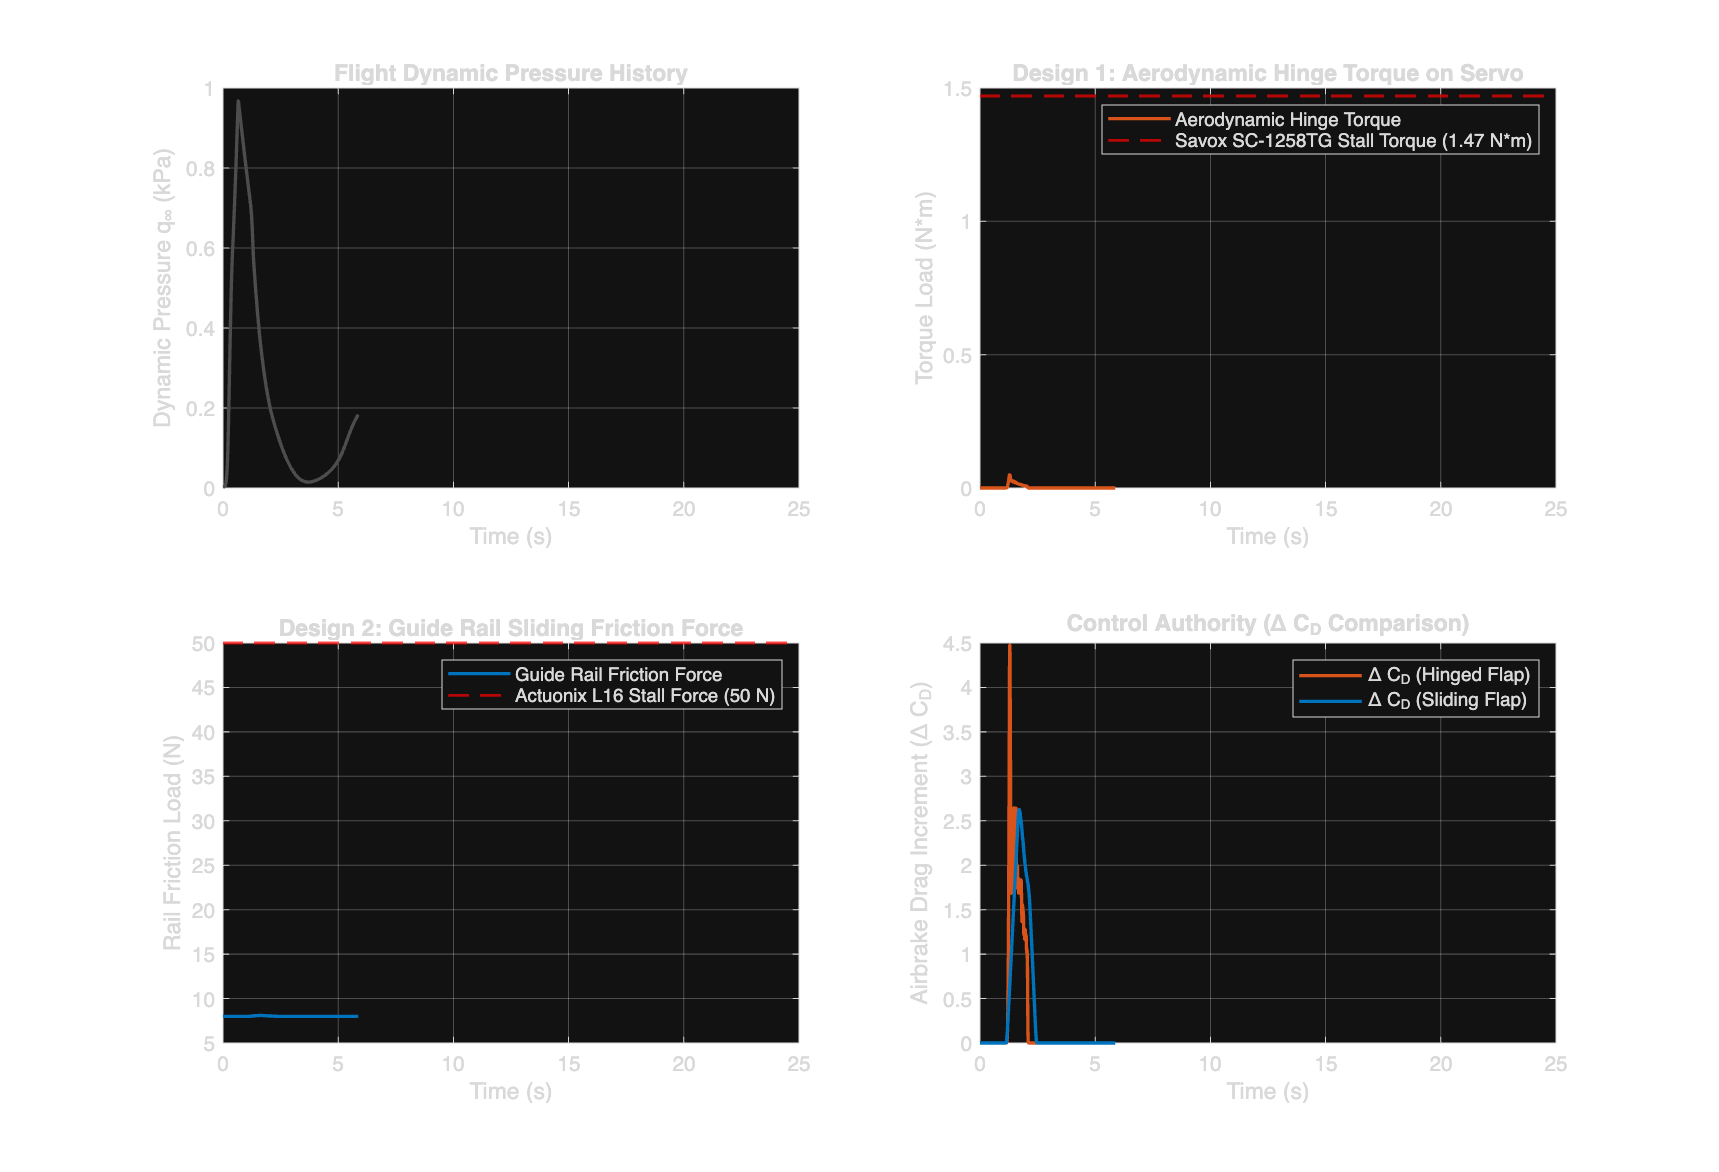
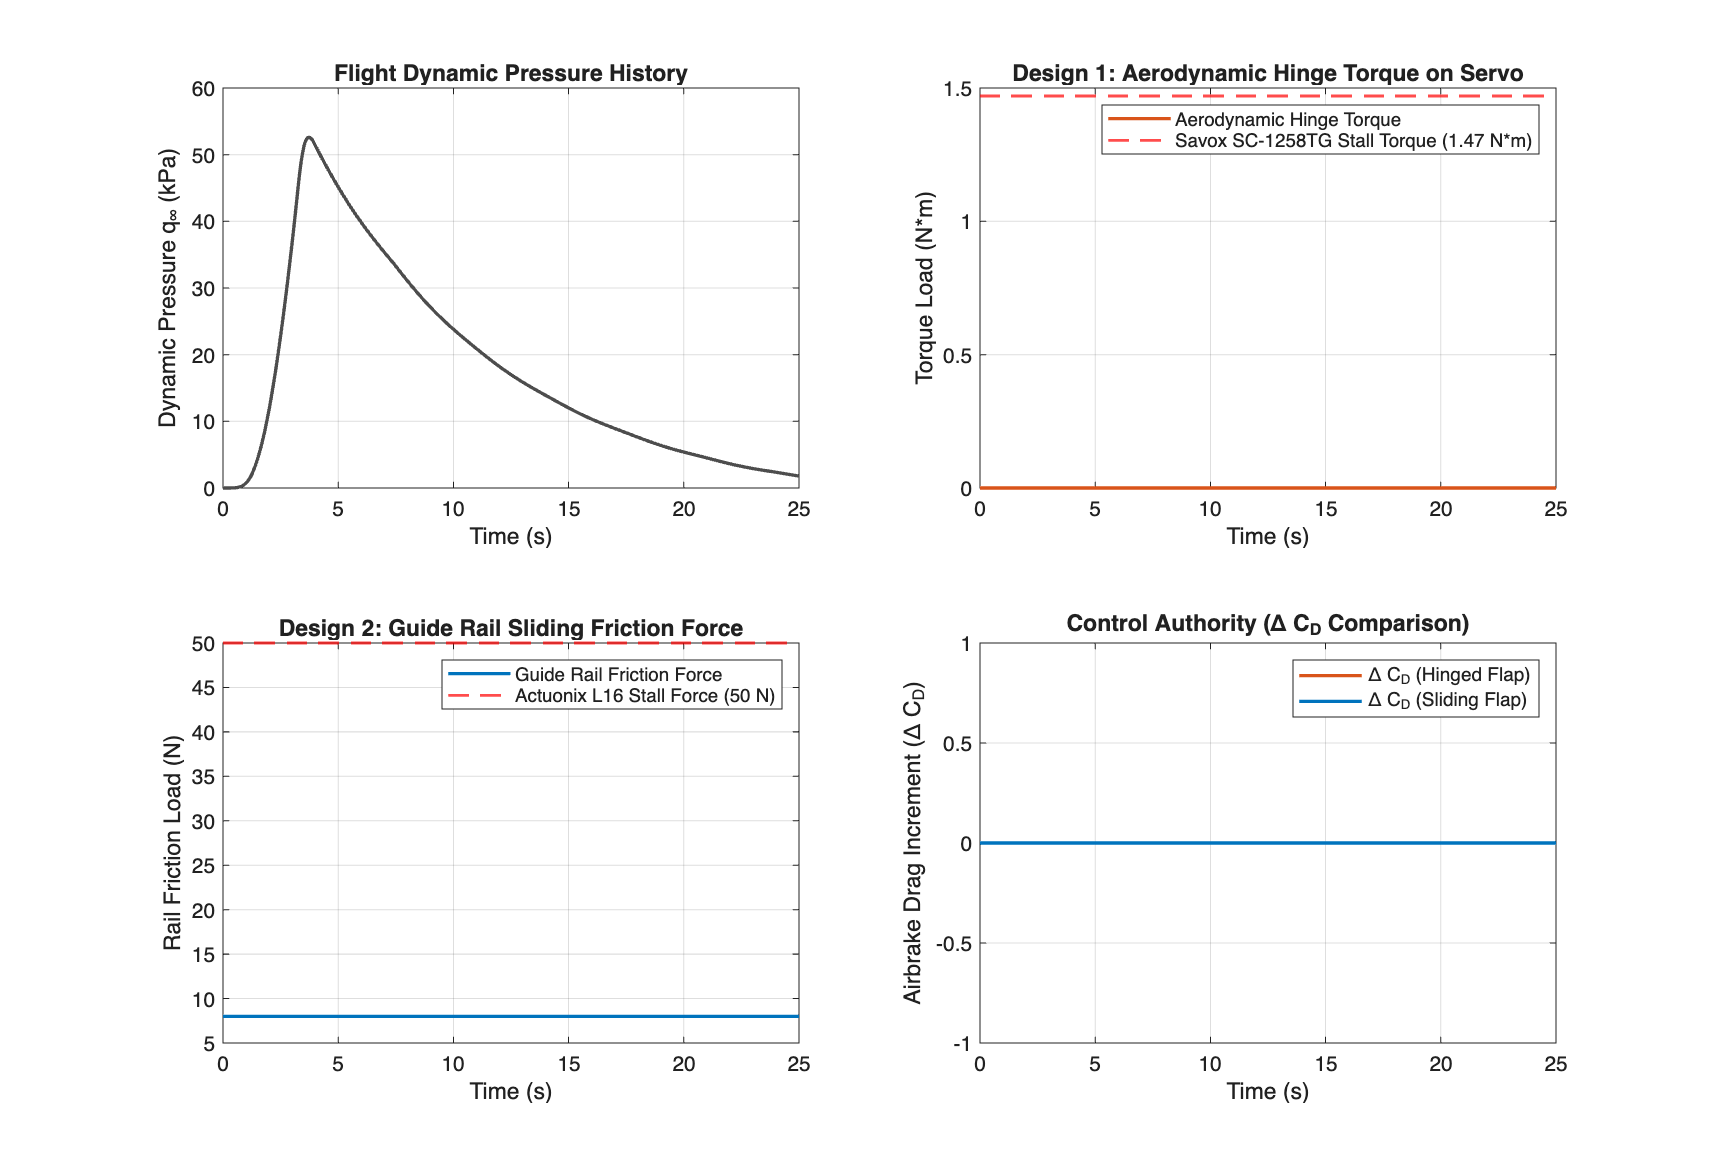
refactor: update rocket physical parameters, motor specifications, and simulation settings to the old tac rocket

diff --git a/scripts/init_airbrake_params.m b/scripts/init_airbrake_params.m
@@ -16,17 +16,18 @@ fprintf('==> Initializing 6-DOF Active Airbrake Simulation Parameters...\n');
 %% 1. Simulation & Environment Settings
 sim_params = struct();
 sim_params.t_start    = 0.0;     % Start time (s)
-sim_params.t_max      = 20.0;    % Max simulation time (s)
+sim_params.t_max      = 40.0;    % Max simulation time (s)
+% sim_params.t_max      = 1200.0;    % Max simulation time (s)
 sim_params.dt         = 0.002;   % Continuous plant integration step (s) - 500 Hz
 sim_params.dt_fsw     = 0.020;   % Flight software sample time (s) - 50 Hz
 sim_params.g0         = 9.80665; % Standard gravity at sea level (m/s^2)
 sim_params.R_earth    = 6371000; % Mean Earth radius (m)
 
 % Launch Rail / Pad Configuration
-sim_params.rail_length = 1.00;    % Launch rail length (m) ~ 12 ft
-sim_params.rail_angle  = 90.0;    % Launch elevation angle (deg) from horizontal
+sim_params.rail_length = 5.18;    % Launch rail length (m) ~ 12 ft
+sim_params.rail_angle  = 86.0;    % Launch elevation angle (deg) from horizontal
 sim_params.rail_azimuth = 90.0;   % Launch azimuth (deg, 90 = East)
-sim_params.altitude_pad = 0.0;  % Launch site elevation MSL (m)
+sim_params.altitude_pad = 890.0;  % Launch site elevation MSL (m)
 
 % Atmospheric & Wind Settings
 sim_params.T0_sl       = 288.15;  % Sea level temperature (K)
@@ -37,8 +38,10 @@ sim_params.R_gas       = 287.05;  % Specific gas constant (J/kg*K)
 sim_params.L_lapse     = 0.0065;  % Temperature lapse rate (K/m)
 
 % Ambient Wind Field (3D: North, East, Down)
-sim_params.wind_base_speed = 2.0; % Ground wind speed (m/s)
+% sim_params.wind_base_speed = 4.5; % Ground wind speed (m/s)
+sim_params.wind_base_speed = 0.0; % Ground wind speed (m/s)
 sim_params.wind_azimuth    = 90; % Direction wind is coming FROM (deg, 270 = from West to East)
+% sim_params.wind_azimuth    = 90; % Direction wind is coming FROM (deg, 270 = from West to East)
 % check the params below later for wind field model
 sim_params.wind_shear_exp  = 0.14;% Power-law boundary layer shear exponent
 sim_params.gust_amplitude  = 2.5; % Gust magnitude (m/s)
@@ -47,31 +50,48 @@ sim_params.gust_frequency  = 0.3; % Gust frequency (Hz)
 %% 2. Rocket Airframe Physical Parameters
 rocket = struct();
 rocket.name         = 'AeroStrike-100 Active Control Sounding Rocket';
-rocket.diameter     = 0.025;               % Body diameter (m) ~ 4.0 inches
-rocket.length       = 0.425;                % Total rocket length (m)
+rocket.diameter     = 0.157;               % Body diameter (m) ~ 4.0 inches
+% rocket.diameter     = 0.025;               % Body diameter (m) ~ 4.0 inches
+rocket.length       = 3.01;                % Total rocket length (m)
+% rocket.length       = 0.425;                % Total rocket length (m)
 rocket.A_ref        = (pi/4)*rocket.diameter^2; % Reference cross-sectional area (m^2)
 rocket.L_ref        = rocket.diameter;     % Reference length for moment coeffs (m)
 
 % Masses & Mass Depletion
-rocket.m_dry        = 0.0482;                % Dry mass without motor propellant (kg)
-rocket.m_prop       = 0.0231;                % Propellant mass (kg)
-rocket.m_liftoff    = rocket.m_dry + rocket.m_prop; % Total liftoff mass (kg) = 0.0713 kg
+rocket.m_dry        = 18.280;                % Dry mass without motor propellant (kg)
+rocket.m_prop       = 8.064;                % Propellant mass (kg)
+% rocket.m_dry        = 0.0482;                % Dry mass without motor propellant (kg)
+% rocket.m_prop       = 0.0231;                % Propellant mass (kg)
+rocket.m_liftoff    = rocket.m_dry + rocket.m_prop; % Total liftoff mass (kg) = 10.15 kg
+% rocket.m_liftoff    = rocket.m_dry + rocket.m_prop; % Total liftoff mass (kg) = 0.0713 kg
 
 % Center of Gravity & Center of Pressure (measured from nose tip)
-rocket.x_CG_wet     = 0.248;                % Initial CG from nose tip (m)
-rocket.x_CG_dry     = 0.241;                % Final dry CG from nose tip (m)
-rocket.x_CP         = 0.30;                % Center of pressure from nose tip (m)
+rocket.x_CG_wet     = 1.928;                % Initial CG from nose tip (m)
+% rocket.x_CG_wet     = 0.248;                % Initial CG from nose tip (m)
+rocket.x_CG_dry     = 1.781;                % Final dry CG from nose tip (m)
+% rocket.x_CG_dry     = 0.241;                % Final dry CG from nose tip (m)
+rocket.x_CP         = 2.199;                % Center of pressure from nose tip (m)
+% rocket.x_CP         = 0.30;                % Center of pressure from nose tip (m)
 rocket.static_margin_wet = (rocket.x_CP - rocket.x_CG_wet) / rocket.diameter; % ~2.94 calibers
 rocket.static_margin_dry = (rocket.x_CP - rocket.x_CG_dry) / rocket.diameter; % ~4.51 calibers
 
 % % Moment coefficients
 % rocket.cxx_wet      = 0;                   % Roll moment coeff wet
 % rocket.cxx_dry      = 0;                   % Roll moment coeff dry
-% rocket.cyy_wet      = 3.34e-4;             % Pitch moment coeff wet
-% rocket.cyy_dry      = 1.08e-4;             % Pitch moment coeff dry
-% rocket.czz_wet      = -2.38e-4;            % Yaw moment coeff wet
-% rocket.czz_dry      = 3.66e-4;             % Yaw moment coeff dry
-% 
+% rocket.cyy_wet      = 2.24e-6;             % Pitch moment coeff wet
+% rocket.cyy_dry      = 1.87e-7;             % Pitch moment coeff dry
+% rocket.czz_wet      = -1.31e-4;            % Yaw moment coeff wet
+% rocket.czz_dry      = -4.35e-4;             % Yaw moment coeff dry
+
+
+% Moments of Inertia [kg*m^2]
+rocket.Ixx_wet      = 1.21e-1;               % Roll inertia wet
+rocket.Ixx_dry      = 1.15e-1;               % Roll inertia dry
+rocket.Iyy_wet      = 1.21e-1;                % Pitch inertia wet
+rocket.Iyy_dry      = 1.15e-1;                % Pitch inertia dry
+rocket.Izz_wet      = 1.21e-1;                % Yaw inertia wet
+rocket.Izz_dry      = 1.15e-1;                % Yaw inertia dry
+
 % % Moments of Inertia [kg*m^2]
 % rocket.Ixx_wet      = rocket.cxx_wet * rocket.m_liftoff * (rocket.diameter / 2)^2;           % Roll inertia wet
 % rocket.Ixx_dry      = rocket.cxx_dry * rocket.m_dry * (rocket.diameter / 2)^2;               % Roll inertia dry
@@ -80,41 +100,33 @@ rocket.static_margin_dry = (rocket.x_CP - rocket.x_CG_dry) / rocket.diameter; % 
 % rocket.Izz_wet      = rocket.czz_wet * rocket.m_liftoff * (rocket.diameter / 2)^2;           % Yaw inertia wet
 % rocket.Izz_dry      = rocket.czz_dry * rocket.m_dry * (rocket.diameter / 2)^2;               % Yaw inertia dry
 
-% Moments of Inertia [kg*m^2]
-rocket.Ixx_wet      = 1e-3;               % Roll inertia wet
-rocket.Ixx_dry      = 9.66e-4;               % Roll inertia dry
-rocket.Iyy_wet      = 1e-3;                % Pitch inertia wet
-rocket.Iyy_dry      = 9.66e-4;                % Pitch inertia dry
-rocket.Izz_wet      = 1e-3;                % Yaw inertia wet
-rocket.Izz_dry      = 9.66e-4;                % Yaw inertia dry
-
 % Propulsion System: High-Power Solid Rocket Motor (e.g. Cesaroni / Aerotech L-Class)
 rocket.motor_name   = 'CTI L1050 / Aerotech L1150 High-Impulse';
-rocket.t_burn       = 0.663;                % Motor burn duration (s)
-rocket.thrust_peak  = 9.73;              % Peak thrust (N)
-rocket.thrust_avg   = 3.48;              % Average thrust (N)
-rocket.total_impulse= 2.32;              % Total impulse (N*s)
+rocket.t_burn       = 3.88;                % Motor burn duration (s)
+rocket.thrust_peak  = 2861.69;              % Peak thrust (N)
+rocket.thrust_avg   = 2461.00;              % Average thrust (N)
+rocket.total_impulse= 9573.00;              % Total impulse (N*s)
 
 % Realistic 2-stage thrust profile (ignition spike -> plateau -> tail-off)
-t_prof = [0.0, 2.26e-1, 4.05e-1, 6.32e-1, 6.84e-1, 7.3e-1];
-T_prof = [0.0, 9.73, 2.50, 2.37, 1.15, 0.0];
+t_prof = [0.0, 1.25, 1.42, 1.92, 2.09, 2.76, 3.26, 3.59, 3.76, 3.93, 4.10, 4.26];
+T_prof = [0.0, 2861.69, 2858.09, 2830.86, 2804.71, 2586.91, 2419.94, 808.04, 282.40, 97.88, 24.49, 0];
 rocket.thrust_lut_t = t_prof;
 rocket.thrust_lut_T = T_prof;
 
 % Clean Rocket Aerodynamic Coefficients
-rocket.CD0_clean    = 1.2e-1;                % Zero-lift subsonic drag coefficient
-rocket.CNa          = 1.911;                % Normal force coefficient slope (1/rad)
+rocket.CD0_clean    = 7.8e-2;                % Zero-lift subsonic drag coefficient
+rocket.CNa          = 1.3e-2;                % Normal force coefficient slope (1/rad)
 rocket.CYb          = 0;               % Side force coefficient slope (1/rad)
-rocket.Cma          = 4.25;               % Pitching moment coefficient slope (1/rad)
-rocket.Cnb          = -2.38e-4;                % Yawing moment coefficient slope (1/rad)
+rocket.Cma          = 2.4e-2;               % Pitching moment coefficient slope (1/rad)
+rocket.Cnb          = -1.31e-4;                % Yawing moment coefficient slope (1/rad)
 rocket.Clp          = 0;               % Roll damping coefficient (1/rad)
 rocket.Cmq          = 0;               % Pitch damping coefficient (1/rad)
-rocket.Cnr          = 0;               % Yaw damping coefficient (1/rad) % not shown in openrockets, assuming 0
+rocket.Cnr          = -1.31e-4;               % Yaw damping coefficient (1/rad)
 
 %% 3. Airbrake Mechanism Designs (Comparison Targets)
 % Both designs are positioned near the CG/midbody (x_brakes = 1.30 m from nose tip)
 airbrakes = struct();
-airbrakes.x_mount    = 0.423;               % Axial location of airbrake unit (m), assuming near the bottom of rocket
+airbrakes.x_mount    = 2.17;               % Axial location of airbrake unit (m)
 airbrakes.num_flaps  = 4;                  % 4 flaps arranged symmetrically at 90-deg intervals
 
 % --- DESIGN 1: Downward-Opening Pivoting Flaps (Variable Angle 0 -> 90 deg) ---
@@ -130,10 +142,10 @@ airbrakes.design1.r_cp_flap   = 0.028;     % Distance from hinge to flap CP (m)
 airbrakes.design1.link_ratio  = 1.25;      % Mechanical advantage of servo pushrod linkage
 
 % --- DESIGN 2: Radially Outward Sliding Flaps (Variable Sliding Speed) ---
-% Only the max extended area of each sliding flap is needed (0.00064516 m^2 = 1.0 in^2)
+% Only the max extended area of each sliding flap is needed (0.002303221 m^2 = 3.57 in^2)
 airbrakes.design2 = struct();
 airbrakes.design2.name                 = 'Design 2: Radially Outward Sliding Flaps (90 deg constant)';
-airbrakes.design2.single_flap_max_area = 0.00064516; % Max extended area per flap (m^2) = 1.0 in^2
+airbrakes.design2.single_flap_max_area = 0.002303221; % Max extended area per flap (m^2) = 3.57 in^2
 airbrakes.design2.single_area          = airbrakes.design2.single_flap_max_area;
 airbrakes.single_area                  = airbrakes.design2.single_flap_max_area;
 airbrakes.design2.total_area           = airbrakes.num_flaps * airbrakes.design2.single_flap_max_area;
@@ -214,7 +226,7 @@ electronics.battery.R_internal= 0.045;     % Internal resistance (Ohms) = 45 mOh
 
 %% 5. Guidance, Navigation, and Control (GNC) / PID Controller Parameters
 gnc = struct();
-gnc.target_apogee = 50.6;   % Target apogee MSL (m)
+gnc.target_apogee = 10000.0;   % Target apogee MSL (m)
 
 % Flight State Machine Thresholds
 gnc.burnout_acc_thresh = -5.0; % Acceleration drop (m/s^2) indicating motor burnout

diff --git a/scripts/init_airbrake_params_fau_tac_old_rocket.m b/scripts/init_airbrake_params_fau_tac_old_rocket.m
@@ -24,10 +24,10 @@ sim_params.g0         = 9.80665; % Standard gravity at sea level (m/s^2)
 sim_params.R_earth    = 6371000; % Mean Earth radius (m)
 
 % Launch Rail / Pad Configuration
-sim_params.rail_length = 3.65;    % Launch rail length (m) ~ 12 ft
+sim_params.rail_length = 5.18;    % Launch rail length (m) ~ 12 ft
 sim_params.rail_angle  = 86.0;    % Launch elevation angle (deg) from horizontal
 sim_params.rail_azimuth = 90.0;   % Launch azimuth (deg, 90 = East)
-sim_params.altitude_pad = 100.0;  % Launch site elevation MSL (m)
+sim_params.altitude_pad = 890.0;  % Launch site elevation MSL (m)
 
 % Atmospheric & Wind Settings
 sim_params.T0_sl       = 288.15;  % Sea level temperature (K)
@@ -39,8 +39,8 @@ sim_params.L_lapse     = 0.0065;  % Temperature lapse rate (K/m)
 
 % Ambient Wind Field (3D: North, East, Down)
 % sim_params.wind_base_speed = 4.5; % Ground wind speed (m/s)
-sim_params.wind_base_speed = 2.0; % Ground wind speed (m/s)
-sim_params.wind_azimuth    = 270; % Direction wind is coming FROM (deg, 270 = from West to East)
+sim_params.wind_base_speed = 0.0; % Ground wind speed (m/s)
+sim_params.wind_azimuth    = 90; % Direction wind is coming FROM (deg, 270 = from West to East)
 % sim_params.wind_azimuth    = 90; % Direction wind is coming FROM (deg, 270 = from West to East)
 % check the params below later for wind field model
 sim_params.wind_shear_exp  = 0.14;% Power-law boundary layer shear exponent
@@ -50,47 +50,47 @@ sim_params.gust_frequency  = 0.3; % Gust frequency (Hz)
 %% 2. Rocket Airframe Physical Parameters
 rocket = struct();
 rocket.name         = 'AeroStrike-100 Active Control Sounding Rocket';
-rocket.diameter     = 0.102;               % Body diameter (m) ~ 4.0 inches
+rocket.diameter     = 0.157;               % Body diameter (m) ~ 4.0 inches
 % rocket.diameter     = 0.025;               % Body diameter (m) ~ 4.0 inches
-rocket.length       = 2.45;                % Total rocket length (m)
+rocket.length       = 3.01;                % Total rocket length (m)
 % rocket.length       = 0.425;                % Total rocket length (m)
 rocket.A_ref        = (pi/4)*rocket.diameter^2; % Reference cross-sectional area (m^2)
 rocket.L_ref        = rocket.diameter;     % Reference length for moment coeffs (m)
 
 % Masses & Mass Depletion
-rocket.m_dry        = 8.20;                % Dry mass without motor propellant (kg)
-rocket.m_prop       = 1.95;                % Propellant mass (kg)
+rocket.m_dry        = 18.280;                % Dry mass without motor propellant (kg)
+rocket.m_prop       = 8.064;                % Propellant mass (kg)
 % rocket.m_dry        = 0.0482;                % Dry mass without motor propellant (kg)
 % rocket.m_prop       = 0.0231;                % Propellant mass (kg)
 rocket.m_liftoff    = rocket.m_dry + rocket.m_prop; % Total liftoff mass (kg) = 10.15 kg
 % rocket.m_liftoff    = rocket.m_dry + rocket.m_prop; % Total liftoff mass (kg) = 0.0713 kg
 
 % Center of Gravity & Center of Pressure (measured from nose tip)
-rocket.x_CG_wet     = 1.58;                % Initial CG from nose tip (m)
+rocket.x_CG_wet     = 1.928;                % Initial CG from nose tip (m)
 % rocket.x_CG_wet     = 0.248;                % Initial CG from nose tip (m)
-rocket.x_CG_dry     = 1.42;                % Final dry CG from nose tip (m)
+rocket.x_CG_dry     = 1.781;                % Final dry CG from nose tip (m)
 % rocket.x_CG_dry     = 0.241;                % Final dry CG from nose tip (m)
-rocket.x_CP         = 1.88;                % Center of pressure from nose tip (m)
+rocket.x_CP         = 2.199;                % Center of pressure from nose tip (m)
 % rocket.x_CP         = 0.30;                % Center of pressure from nose tip (m)
 rocket.static_margin_wet = (rocket.x_CP - rocket.x_CG_wet) / rocket.diameter; % ~2.94 calibers
 rocket.static_margin_dry = (rocket.x_CP - rocket.x_CG_dry) / rocket.diameter; % ~4.51 calibers
 
-% Moment coefficients
-rocket.cxx_wet      = 0;                   % Roll moment coeff wet
-rocket.cxx_dry      = 0;                   % Roll moment coeff dry
-rocket.cyy_wet      = 3.34e-4;             % Pitch moment coeff wet
-rocket.cyy_dry      = 1.08e-4;             % Pitch moment coeff dry
-rocket.czz_wet      = -2.38e-4;            % Yaw moment coeff wet
-rocket.czz_dry      = 3.66e-4;             % Yaw moment coeff dry
+% % Moment coefficients
+% rocket.cxx_wet      = 0;                   % Roll moment coeff wet
+% rocket.cxx_dry      = 0;                   % Roll moment coeff dry
+% rocket.cyy_wet      = 2.24e-6;             % Pitch moment coeff wet
+% rocket.cyy_dry      = 1.87e-7;             % Pitch moment coeff dry
+% rocket.czz_wet      = -1.31e-4;            % Yaw moment coeff wet
+% rocket.czz_dry      = -4.35e-4;             % Yaw moment coeff dry
 
 
 % Moments of Inertia [kg*m^2]
-rocket.Ixx_wet      = 0.022;               % Roll inertia wet
-rocket.Ixx_dry      = 0.019;               % Roll inertia dry
-rocket.Iyy_wet      = 3.85;                % Pitch inertia wet
-rocket.Iyy_dry      = 2.95;                % Pitch inertia dry
-rocket.Izz_wet      = 3.85;                % Yaw inertia wet
-rocket.Izz_dry      = 2.95;                % Yaw inertia dry
+rocket.Ixx_wet      = 1.21e-1;               % Roll inertia wet
+rocket.Ixx_dry      = 1.15e-1;               % Roll inertia dry
+rocket.Iyy_wet      = 1.21e-1;                % Pitch inertia wet
+rocket.Iyy_dry      = 1.15e-1;                % Pitch inertia dry
+rocket.Izz_wet      = 1.21e-1;                % Yaw inertia wet
+rocket.Izz_dry      = 1.15e-1;                % Yaw inertia dry
 
 % % Moments of Inertia [kg*m^2]
 % rocket.Ixx_wet      = rocket.cxx_wet * rocket.m_liftoff * (rocket.diameter / 2)^2;           % Roll inertia wet
@@ -103,25 +103,25 @@ rocket.Izz_dry      = 2.95;                % Yaw inertia dry
 % Propulsion System: High-Power Solid Rocket Motor (e.g. Cesaroni / Aerotech L-Class)
 rocket.motor_name   = 'CTI L1050 / Aerotech L1150 High-Impulse';
 rocket.t_burn       = 3.88;                % Motor burn duration (s)
-rocket.thrust_peak  = 3710.9;              % Peak thrust (N)
-rocket.thrust_avg   = 2500.0;              % Average thrust (N)
-rocket.total_impulse= 9671.0;              % Total impulse (N*s)
+rocket.thrust_peak  = 2861.69;              % Peak thrust (N)
+rocket.thrust_avg   = 2461.00;              % Average thrust (N)
+rocket.total_impulse= 9573.00;              % Total impulse (N*s)
 
 % Realistic 2-stage thrust profile (ignition spike -> plateau -> tail-off)
-t_prof = [0.0, 0.15, 0.40, 2.70, 3.05, 3.20];
-T_prof = [0.0, 1680.0, 1380.0, 1260.0, 480.0, 0.0];
+t_prof = [0.0, 1.25, 1.42, 1.92, 2.09, 2.76, 3.26, 3.59, 3.76, 3.93, 4.10, 4.26];
+T_prof = [0.0, 2861.69, 2858.09, 2830.86, 2804.71, 2586.91, 2419.94, 808.04, 282.40, 97.88, 24.49, 0];
 rocket.thrust_lut_t = t_prof;
 rocket.thrust_lut_T = T_prof;
 
 % Clean Rocket Aerodynamic Coefficients
-rocket.CD0_clean    = 0.38;                % Zero-lift subsonic drag coefficient
-rocket.CNa          = 5.80;                % Normal force coefficient slope (1/rad)
-rocket.CYb          = -5.80;               % Side force coefficient slope (1/rad)
-rocket.Cma          = -14.2;               % Pitching moment coefficient slope (1/rad)
-rocket.Cnb          = 14.2;                % Yawing moment coefficient slope (1/rad)
-rocket.Clp          = -0.75;               % Roll damping coefficient (1/rad)
-rocket.Cmq          = -26.0;               % Pitch damping coefficient (1/rad)
-rocket.Cnr          = -26.0;               % Yaw damping coefficient (1/rad)
+rocket.CD0_clean    = 7.8e-2;                % Zero-lift subsonic drag coefficient
+rocket.CNa          = 1.3e-2;                % Normal force coefficient slope (1/rad)
+rocket.CYb          = 0;               % Side force coefficient slope (1/rad)
+rocket.Cma          = 2.4e-2;               % Pitching moment coefficient slope (1/rad)
+rocket.Cnb          = -1.31e-4;                % Yawing moment coefficient slope (1/rad)
+rocket.Clp          = 0;               % Roll damping coefficient (1/rad)
+rocket.Cmq          = 0;               % Pitch damping coefficient (1/rad)
+rocket.Cnr          = -1.31e-4;               % Yaw damping coefficient (1/rad)
 
 %% 3. Airbrake Mechanism Designs (Comparison Targets)
 % Both designs are positioned near the CG/midbody (x_brakes = 1.30 m from nose tip)
@@ -226,7 +226,7 @@ electronics.battery.R_internal= 0.045;     % Internal resistance (Ohms) = 45 mOh
 
 %% 5. Guidance, Navigation, and Control (GNC) / PID Controller Parameters
 gnc = struct();
-gnc.target_apogee = 3000.0;   % Target apogee MSL (m)
+gnc.target_apogee = 10000.0;   % Target apogee MSL (m)
 
 % Flight State Machine Thresholds
 gnc.burnout_acc_thresh = -5.0; % Acceleration drop (m/s^2) indicating motor burnout
